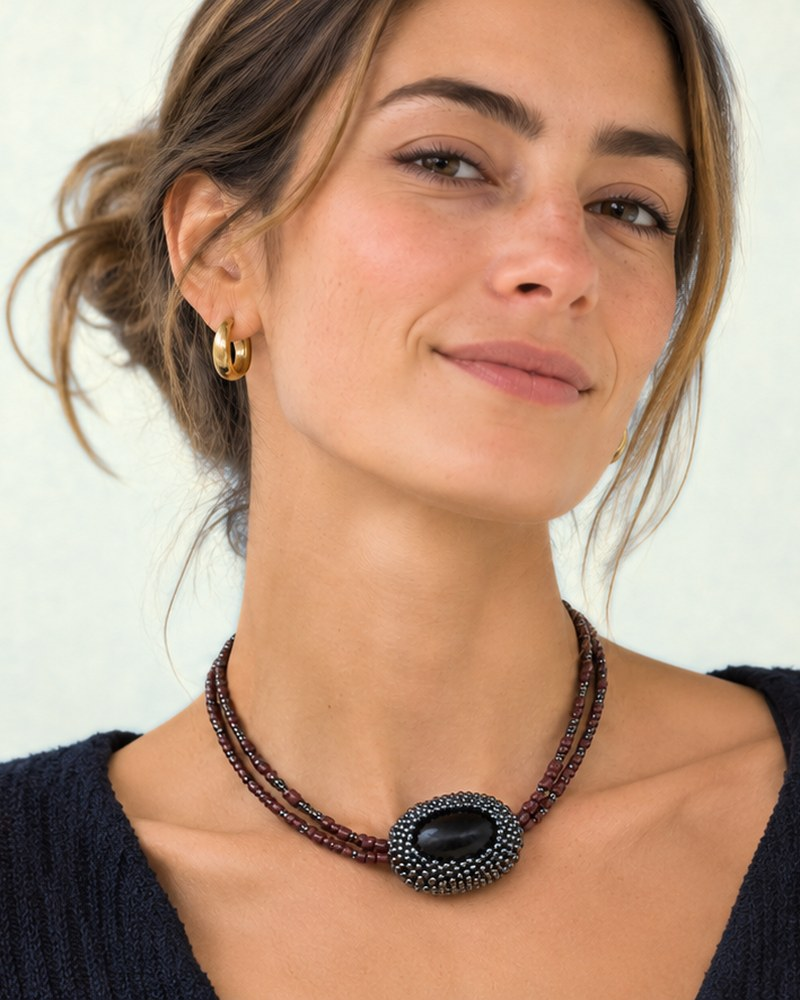
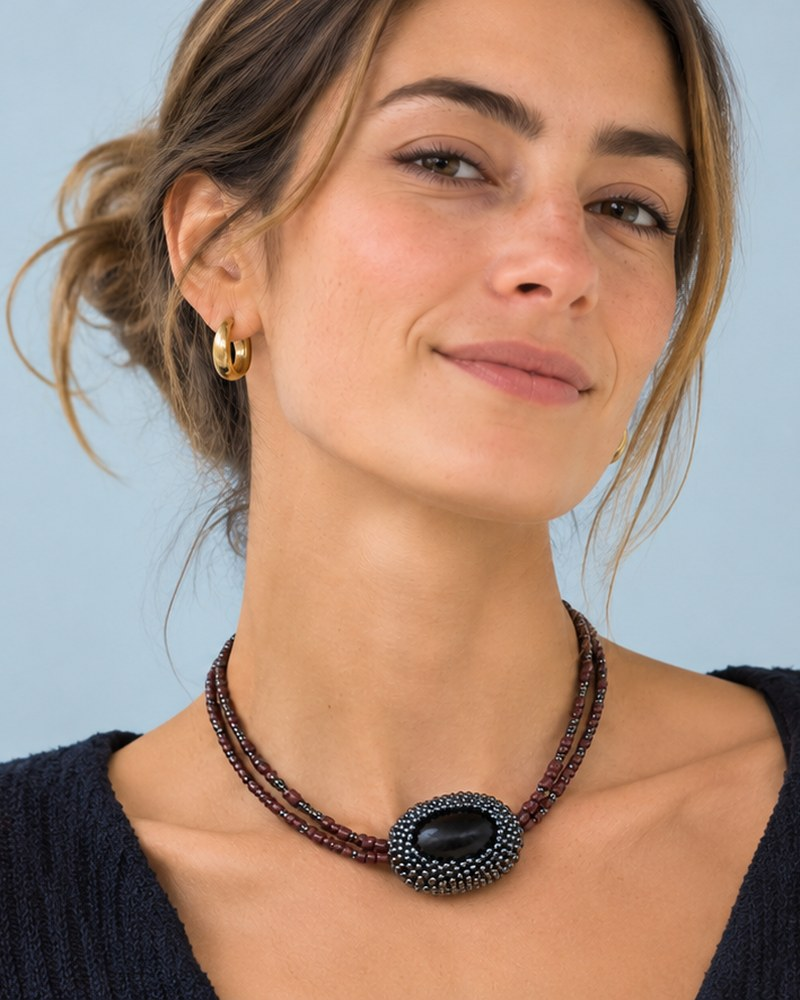
Add files via upload

Changed region(s): [[0.0, 0.0, 0.3125, 0.775], [0.6875, 0.0, 1.0, 0.682], [0.7812, 0.372, 0.8125, 0.403]]

diff --git a/index.html b/index.html
@@ -2,9 +2,9 @@
 <html lang="es"><head><meta charset="utf-8">
 <meta name="viewport" content="width=device-width, initial-scale=1, viewport-fit=cover">
 <title>trama. | Joyería de autor</title>
-<meta name="description" content="Aros y collares de autor hechos a mano con piedras. Catálogo y consultas por WhatsApp.">
+<meta name="description" content="Aros, collares y pulseras de autor hechos a mano. Catálogo y consultas por WhatsApp.">
 <meta name="theme-color" content="#6B2734">
-<meta property="og:title" content="trama. | Joyería de autor"><meta property="og:description" content="Aros y collares hechos a mano. Mira el catálogo."><meta property="og:type" content="website">
+<meta property="og:title" content="trama. | Joyería de autor"><meta property="og:description" content="Aros, collares y pulseras hechos a mano. Mira el catálogo."><meta property="og:type" content="website">
 <link rel="icon" href="favicon.png"><link rel="apple-touch-icon" href="apple-touch-icon.png">
 <link rel="stylesheet" href="style.css"></head>
 <body>
@@ -14,7 +14,7 @@
 <a class="ver" href="#aros">Ver el catálogo</a>
 </header>
 <nav class="bar"><a href="#top" class="brand" aria-label="trama. joyería de autor"><img src="assets/logo.png" alt="trama. joyería de autor" width="690" height="230"></a>
-<div class="links"><a class="lk" href="#aros">Aros</a><a class="lk" href="#collares">Collares</a><a class="wa-top" href="https://wa.me/56981496169" target="_blank" rel="noopener">WhatsApp</a></div></nav>
+<div class="links"><a class="lk" href="#aros">Aros</a><a class="lk" href="#collares">Collares</a><a class="lk" href="#pulseras">Pulseras</a><a class="wa-top" href="https://wa.me/56981496169" target="_blank" rel="noopener">WhatsApp</a></div></nav>
 <main id="aros">
 <section class="intro"><h2>Aros de autor</h2><p>Hechos a mano con piedras, y ultralivianos. Desliza cada foto para verlos puestos.</p></section>
 <section class="grid">
@@ -68,6 +68,11 @@
 <div class="info"><h3>Calipso, bordó y ámbar</h3><p class="price">$25.000</p></div>
 <a class="wa" href="https://wa.me/56981496169?text=Hola%21%20Me%20interesa%20el%20modelo%20%22Calipso%2C%20bord%C3%B3%20y%20%C3%A1mbar%22%20%28%2425.000%29.%20%C2%BFEst%C3%A1%20disponible%3F" target="_blank" rel="noopener">Consultar por WhatsApp</a>
 </article>
+<article class="item" id="modelo-37">
+<div class="photo"><div class="media"><img src="assets/img/modelo-37-sola.jpg" width="800" height="1000" alt="Aros Negro y plateado, foto sola" loading="lazy"><img src="assets/img/modelo-37-puesta.jpg" width="800" height="1000" alt="Aros Negro y plateado, puestos" loading="lazy"></div><button class="flip" type="button" aria-label="Cambiar foto">Ver puestos</button></div>
+<div class="info"><h3>Negro y plateado</h3><p class="price">$25.000</p></div>
+<a class="wa" href="https://wa.me/56981496169?text=Hola%21%20Me%20interesa%20el%20modelo%20%22Negro%20y%20plateado%22%20%28%2425.000%29.%20%C2%BFEst%C3%A1%20disponible%3F" target="_blank" rel="noopener">Consultar por WhatsApp</a>
+</article>
 <article class="item" id="modelo-11">
 <div class="photo"><div class="media"><img src="assets/img/modelo-11-sola.jpg" width="800" height="1000" alt="Aros Azul marino y celeste, foto sola" loading="lazy"><img src="assets/img/modelo-11-puesta.jpg" width="800" height="1000" alt="Aros Azul marino y celeste, puestos" loading="lazy"></div><button class="flip" type="button" aria-label="Cambiar foto">Ver puestos</button></div>
 <div class="info"><h3>Azul marino y celeste</h3><p class="price">$27.000</p></div>
@@ -87,6 +92,11 @@
 <div class="photo"><div class="media"><img src="assets/img/modelo-14-sola.jpg" width="800" height="1000" alt="Aros Rojo, naranja y mostaza, foto sola" loading="lazy"><img src="assets/img/modelo-14-puesta.jpg" width="800" height="1000" alt="Aros Rojo, naranja y mostaza, puestos" loading="lazy"></div><button class="flip" type="button" aria-label="Cambiar foto">Ver puestos</button></div>
 <div class="info"><h3>Rojo, naranja y mostaza</h3><p class="price">$27.000</p></div>
 <a class="wa" href="https://wa.me/56981496169?text=Hola%21%20Me%20interesa%20el%20modelo%20%22Rojo%2C%20naranja%20y%20mostaza%22%20%28%2427.000%29.%20%C2%BFEst%C3%A1%20disponible%3F" target="_blank" rel="noopener">Consultar por WhatsApp</a>
+</article>
+<article class="item" id="modelo-49">
+<div class="photo"><div class="media"><img src="assets/img/modelo-49-sola.jpg" width="800" height="1000" alt="Aros Verde salvia y turquesa, foto sola" loading="lazy"><img src="assets/img/modelo-49-puesta.jpg" width="800" height="1000" alt="Aros Verde salvia y turquesa, puestos" loading="lazy"></div><button class="flip" type="button" aria-label="Cambiar foto">Ver puestos</button></div>
+<div class="info"><h3>Verde salvia y turquesa</h3><p class="price">$27.000</p></div>
+<a class="wa" href="https://wa.me/56981496169?text=Hola%21%20Me%20interesa%20el%20modelo%20%22Verde%20salvia%20y%20turquesa%22%20%28%2427.000%29.%20%C2%BFEst%C3%A1%20disponible%3F" target="_blank" rel="noopener">Consultar por WhatsApp</a>
 </article>
 <article class="item" id="modelo-15">
 <div class="photo"><div class="media"><img src="assets/img/modelo-15-sola.jpg" width="800" height="1000" alt="Aros Bordó, rosa y celeste, foto sola" loading="lazy"></div></div>
@@ -143,6 +153,11 @@
 <div class="info"><h3>Azul grisáceo, plata y perla</h3><p class="price">$55.000</p></div><span class="oro">perlas de río</span>
 <a class="wa" href="https://wa.me/56981496169?text=Hola%21%20Me%20interesa%20el%20modelo%20%22Azul%20gris%C3%A1ceo%2C%20plata%20y%20perla%22%20%28%2455.000%29.%20%C2%BFEst%C3%A1%20disponible%3F" target="_blank" rel="noopener">Consultar por WhatsApp</a>
 </article>
+<article class="item" id="modelo-45">
+<div class="photo"><div class="media"><img src="assets/img/modelo-45-sola.jpg" width="800" height="1000" alt="Aros Dorado, azul y perla, foto sola" loading="lazy"><img src="assets/img/modelo-45-puesta.jpg" width="800" height="1000" alt="Aros Dorado, azul y perla, puestos" loading="lazy"></div><button class="flip" type="button" aria-label="Cambiar foto">Ver puestos</button></div>
+<div class="info"><h3>Dorado, azul y perla</h3><p class="price">$70.000</p></div><span class="oro">baño en oro</span><p class="desc">Con perlas de río irregulares. Se pueden pedir en el color que quieras.</p>
+<a class="wa" href="https://wa.me/56981496169?text=Hola%21%20Me%20interesa%20el%20modelo%20%22Dorado%2C%20azul%20y%20perla%22%20%28%2470.000%29.%20%C2%BFEst%C3%A1%20disponible%3F" target="_blank" rel="noopener">Consultar por WhatsApp</a>
+</article>
 <article class="item" id="modelo-24">
 <div class="photo"><div class="media"><img src="assets/img/modelo-24-sola.jpg" width="800" height="1000" alt="Aros Dorado y verde oliva, foto sola" loading="lazy"><img src="assets/img/modelo-24-puesta.jpg" width="800" height="1000" alt="Aros Dorado y verde oliva, puestos" loading="lazy"></div><button class="flip" type="button" aria-label="Cambiar foto">Ver puestos</button></div>
 <div class="info"><h3>Dorado y verde oliva</h3><p class="price">$85.000</p></div><span class="oro">baño en oro</span>
@@ -152,6 +167,11 @@
 <div class="photo"><div class="media"><img src="assets/img/modelo-25-sola.jpg" width="800" height="1000" alt="Aros Fucsia, rojo y dorado, foto sola" loading="lazy"><img src="assets/img/modelo-25-puesta.jpg" width="800" height="1000" alt="Aros Fucsia, rojo y dorado, puestos" loading="lazy"></div><button class="flip" type="button" aria-label="Cambiar foto">Ver puestos</button></div>
 <div class="info"><h3>Fucsia, rojo y dorado</h3><p class="price">$85.000</p></div><span class="oro">baño en oro</span>
 <a class="wa" href="https://wa.me/56981496169?text=Hola%21%20Me%20interesa%20el%20modelo%20%22Fucsia%2C%20rojo%20y%20dorado%22%20%28%2485.000%29.%20%C2%BFEst%C3%A1%20disponible%3F" target="_blank" rel="noopener">Consultar por WhatsApp</a>
+</article>
+<article class="item" id="modelo-47">
+<div class="photo"><div class="media"><img src="assets/img/modelo-47-sola.jpg" width="800" height="1000" alt="Aros Dorado, verde y ámbar, foto sola" loading="lazy"><img src="assets/img/modelo-47-puesta.jpg" width="800" height="1000" alt="Aros Dorado, verde y ámbar, puestos" loading="lazy"></div><button class="flip" type="button" aria-label="Cambiar foto">Ver puestos</button></div>
+<div class="info"><h3>Dorado, verde y ámbar</h3><p class="price">$85.000</p></div><span class="oro">baño en oro</span>
+<a class="wa" href="https://wa.me/56981496169?text=Hola%21%20Me%20interesa%20el%20modelo%20%22Dorado%2C%20verde%20y%20%C3%A1mbar%22%20%28%2485.000%29.%20%C2%BFEst%C3%A1%20disponible%3F" target="_blank" rel="noopener">Consultar por WhatsApp</a>
 </article>
 </section>
 <section class="intro" id="collares"><h2>Collares</h2><p>Hechos a mano, para usar solos o junto a tus aros.</p></section>
@@ -196,10 +216,53 @@
 <div class="info"><h3>Plateado y negro</h3><p class="price">$30.000</p></div>
 <a class="wa" href="https://wa.me/56981496169?text=Hola%21%20Me%20interesa%20el%20collar%20%22Plateado%20y%20negro%22%20%28%2430.000%29.%20%C2%BFEst%C3%A1%20disponible%3F" target="_blank" rel="noopener">Consultar por WhatsApp</a>
 </article>
+<article class="item" id="modelo-38">
+<div class="photo"><div class="media"><img src="assets/img/modelo-38-sola.jpg" width="800" height="1000" alt="Collar Negro y perla, foto sola" loading="lazy"><img src="assets/img/modelo-38-puesta.jpg" width="800" height="1000" alt="Collar Negro y perla, puesto" loading="lazy"></div><button class="flip" type="button" aria-label="Cambiar foto">Ver puesto</button></div>
+<div class="info"><h3>Negro y perla</h3><p class="price">$40.000</p></div><span class="oro">largo</span>
+<a class="wa" href="https://wa.me/56981496169?text=Hola%21%20Me%20interesa%20el%20collar%20%22Negro%20y%20perla%22%20%28%2440.000%29.%20%C2%BFEst%C3%A1%20disponible%3F" target="_blank" rel="noopener">Consultar por WhatsApp</a>
+</article>
+<article class="item" id="modelo-40">
+<div class="photo"><div class="media"><img src="assets/img/modelo-40-sola.jpg" width="800" height="1000" alt="Collar Dorado y nácar blanco, foto sola" loading="lazy"><img src="assets/img/modelo-40-puesta.jpg" width="800" height="1000" alt="Collar Dorado y nácar blanco, puesto" loading="lazy"></div><button class="flip" type="button" aria-label="Cambiar foto">Ver puesto</button></div>
+<div class="info"><h3>Dorado y nácar blanco</h3><p class="price">$45.000</p></div><p class="desc">Hilo metalizado dorado, broche bronce oxidado y colgante de nácar.</p>
+<a class="wa" href="https://wa.me/56981496169?text=Hola%21%20Me%20interesa%20el%20collar%20%22Dorado%20y%20n%C3%A1car%20blanco%22%20%28%2445.000%29.%20%C2%BFEst%C3%A1%20disponible%3F" target="_blank" rel="noopener">Consultar por WhatsApp</a>
+</article>
+<article class="item" id="modelo-41">
+<div class="photo"><div class="media"><img src="assets/img/modelo-41-puesta.jpg" width="800" height="1000" alt="Collar Dorado y nácar verdoso, puesto" loading="lazy"></div></div>
+<div class="info"><h3>Dorado y nácar verdoso</h3><p class="price">$45.000</p></div><p class="desc">Hilo metalizado dorado, broche bronce oxidado y colgante de nácar.</p>
+<a class="wa" href="https://wa.me/56981496169?text=Hola%21%20Me%20interesa%20el%20collar%20%22Dorado%20y%20n%C3%A1car%20verdoso%22%20%28%2445.000%29.%20%C2%BFEst%C3%A1%20disponible%3F" target="_blank" rel="noopener">Consultar por WhatsApp</a>
+</article>
 <article class="item" id="modelo-28">
 <div class="photo"><div class="media"><img src="assets/img/modelo-28-sola.jpg" width="800" height="1000" alt="Collar Dorado, azul y celeste, foto sola" loading="lazy"><img src="assets/img/modelo-28-puesta.jpg" width="800" height="1000" alt="Collar Dorado, azul y celeste, puesto" loading="lazy"></div><button class="flip" type="button" aria-label="Cambiar foto">Ver puesto</button></div>
-<div class="info"><h3>Dorado, azul y celeste</h3><p class="price">$50.000</p></div><p class="desc">Hilo metalizado dorado, broche bronce oxidado y medallón de piedras semipreciosas.</p>
+<div class="info"><h3>Dorado, azul y celeste</h3><p class="price">$50.000</p></div><p class="desc">Hilo metalizado dorado, broche bronce oxidado y medallón de piedras semipreciosas. Se puede mandar a hacer en los colores que quieras.</p>
 <a class="wa" href="https://wa.me/56981496169?text=Hola%21%20Me%20interesa%20el%20collar%20%22Dorado%2C%20azul%20y%20celeste%22%20%28%2450.000%29.%20%C2%BFEst%C3%A1%20disponible%3F" target="_blank" rel="noopener">Consultar por WhatsApp</a>
+</article>
+<article class="item" id="modelo-46">
+<div class="photo"><div class="media"><img src="assets/img/modelo-46-sola.jpg" width="800" height="1000" alt="Collar Dorado, burdeo y bronce, foto sola" loading="lazy"></div></div>
+<div class="info"><h3>Dorado, burdeo y bronce</h3><p class="price">$50.000</p></div><p class="desc">Hilo metalizado dorado, broche bronce oxidado y medallón de piedras semipreciosas. Se puede mandar a hacer en los colores que quieras.</p>
+<a class="wa" href="https://wa.me/56981496169?text=Hola%21%20Me%20interesa%20el%20collar%20%22Dorado%2C%20burdeo%20y%20bronce%22%20%28%2450.000%29.%20%C2%BFEst%C3%A1%20disponible%3F" target="_blank" rel="noopener">Consultar por WhatsApp</a>
+</article>
+</section>
+<section class="intro" id="pulseras"><h2>Pulseras</h2><p>Tejidas a mano, para combinar con tus aros y collares.</p></section>
+<section class="grid">
+<article class="item" id="modelo-42">
+<div class="photo"><div class="media"><img src="assets/img/modelo-42-sola.jpg" width="800" height="1000" alt="Pulsera Café, foto sola" loading="lazy"><img src="assets/img/modelo-42-puesta.jpg" width="800" height="1000" alt="Pulsera Café, puesta" loading="lazy"></div><button class="flip" type="button" aria-label="Cambiar foto">Ver puesta</button></div>
+<div class="info"><h3>Café</h3><p class="price">$20.000</p></div><span class="oro">hilo metalizado</span>
+<a class="wa" href="https://wa.me/56981496169?text=Hola%21%20Me%20interesa%20la%20pulsera%20%22Caf%C3%A9%22%20%28%2420.000%29.%20%C2%BFEst%C3%A1%20disponible%3F" target="_blank" rel="noopener">Consultar por WhatsApp</a>
+</article>
+<article class="item" id="modelo-43">
+<div class="photo"><div class="media"><img src="assets/img/modelo-43-sola.jpg" width="800" height="1000" alt="Pulsera Dorado, foto sola" loading="lazy"><img src="assets/img/modelo-43-puesta.jpg" width="800" height="1000" alt="Pulsera Dorado, puesta" loading="lazy"></div><button class="flip" type="button" aria-label="Cambiar foto">Ver puesta</button></div>
+<div class="info"><h3>Dorado</h3><p class="price">$20.000</p></div><span class="oro">hilo metalizado</span>
+<a class="wa" href="https://wa.me/56981496169?text=Hola%21%20Me%20interesa%20la%20pulsera%20%22Dorado%22%20%28%2420.000%29.%20%C2%BFEst%C3%A1%20disponible%3F" target="_blank" rel="noopener">Consultar por WhatsApp</a>
+</article>
+<article class="item" id="modelo-44">
+<div class="photo"><div class="media"><img src="assets/img/modelo-44-sola.jpg" width="800" height="1000" alt="Pulsera Blanco nacarado y gris, foto sola" loading="lazy"><img src="assets/img/modelo-44-puesta.jpg" width="800" height="1000" alt="Pulsera Blanco nacarado y gris, puesta" loading="lazy"></div><button class="flip" type="button" aria-label="Cambiar foto">Ver puesta</button></div>
+<div class="info"><h3>Blanco nacarado y gris</h3><p class="price">$35.000</p></div>
+<a class="wa" href="https://wa.me/56981496169?text=Hola%21%20Me%20interesa%20la%20pulsera%20%22Blanco%20nacarado%20y%20gris%22%20%28%2435.000%29.%20%C2%BFEst%C3%A1%20disponible%3F" target="_blank" rel="noopener">Consultar por WhatsApp</a>
+</article>
+<article class="item" id="modelo-48">
+<div class="photo"><div class="media"><img src="assets/img/modelo-48-sola.jpg" width="800" height="1000" alt="Pulsera Terracota, mostaza y burdeo, foto sola" loading="lazy"><img src="assets/img/modelo-48-puesta.jpg" width="800" height="1000" alt="Pulsera Terracota, mostaza y burdeo, puesta" loading="lazy"></div><button class="flip" type="button" aria-label="Cambiar foto">Ver puesta</button></div>
+<div class="info"><h3>Terracota, mostaza y burdeo</h3><p class="price">$45.000</p></div><p class="desc">Se puede mandar a hacer en el color que quieras.</p>
+<a class="wa" href="https://wa.me/56981496169?text=Hola%21%20Me%20interesa%20la%20pulsera%20%22Terracota%2C%20mostaza%20y%20burdeo%22%20%28%2445.000%29.%20%C2%BFEst%C3%A1%20disponible%3F" target="_blank" rel="noopener">Consultar por WhatsApp</a>
 </article>
 </section>
 <section class="aviso"><div class="aviso-in">

diff --git a/style.css b/style.css
@@ -53,3 +53,7 @@ main{max-width:1240px;margin:0 auto;padding:0 clamp(16px,4vw,48px)}
 .lk:hover{text-decoration:underline}
 #collares{padding-top:8px}
 .desc{margin:-4px 0 0;font-size:13px;line-height:1.45}
+@media (max-width:520px){.bar .lk{font-size:13px}.links{gap:10px}.wa-top{padding:8px 12px}}
+#pulseras{padding-top:8px}
+@media (max-width:420px){.brand img{height:24px}.links{gap:9px}.bar .lk{font-size:12.5px}.wa-top{font-size:12.5px;padding:7px 11px}}
+@media (max-width:350px){.brand img{height:20px}.brand{margin-right:6px}.links{gap:7px}.bar .lk{font-size:11.5px}.wa-top{padding:6px 9px}}
